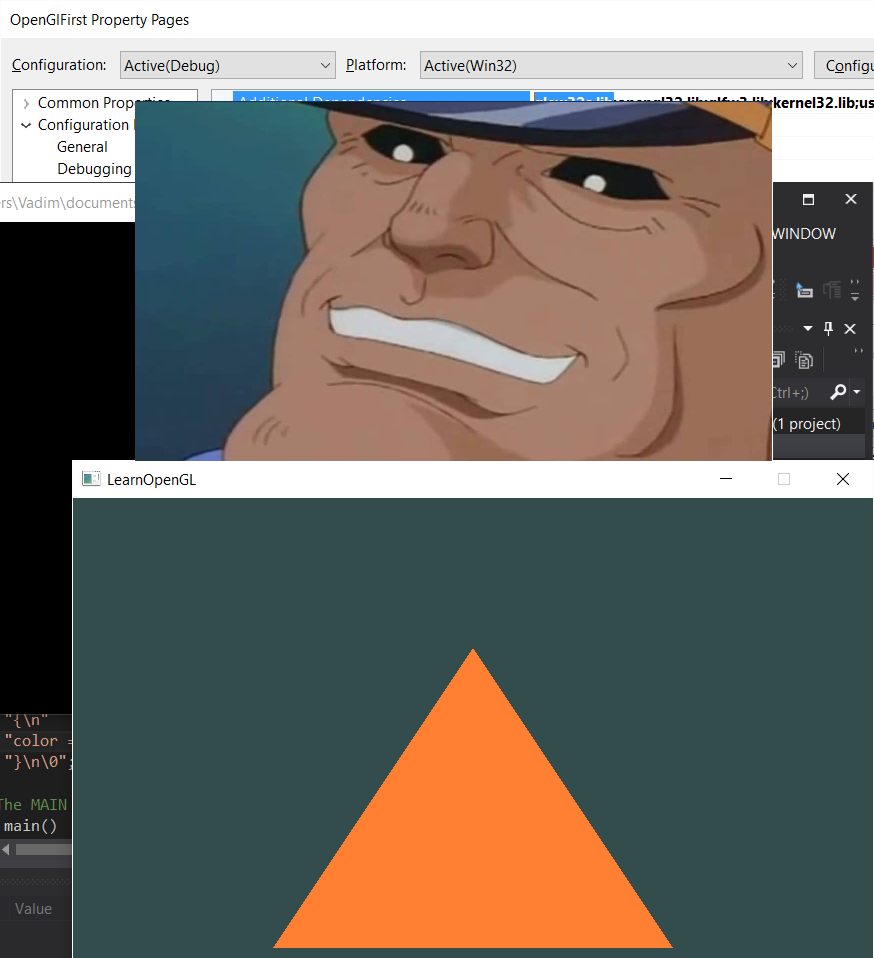
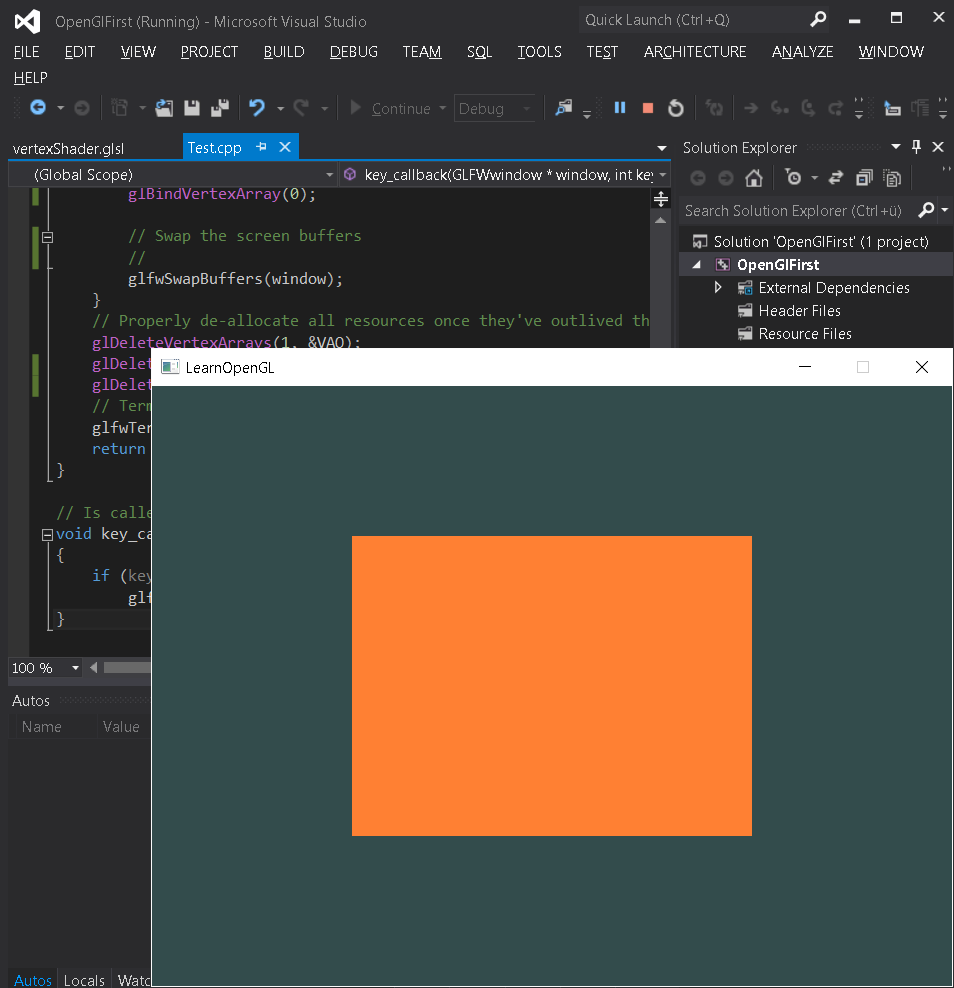
I've got a square... some magic goes on

diff --git a/OpenGlFirst/Test.cpp b/OpenGlFirst/Test.cpp
@@ -95,12 +95,24 @@ int main()
     glDeleteShader(fragmentShader);
 
 
-    // Set up vertex data (and buffer(s)) and attribute pointers
+    // Set up vertex data (and buffer(s)) and attribute pointers for a square (2 triangles).
     GLfloat vertices[] = {
-        -0.5f, -0.5f, 0.0f, // Left  
-         0.5f, -0.5f, 0.0f, // Right 
-         0.0f,  0.5f, 0.0f  // Top   
-    };
+        -0.5f, 0.5f, 0.0f,    // Top Left  
+         0.5f, 0.5f, 0.0f,    // Top Right 
+         0.5f,  -0.5f, 0.0f,  // Bot Right
+		-0.5f, -0.5f, 0.0f	  // Bot left
+	};
+
+	GLuint indices[] = 
+	{ // Note that we start from 0
+		0, 1, 2, // first tr
+		0, 2, 3  // second tr
+	};
+
+	GLuint EBO;
+	glGenBuffers(1, &EBO);
+
+
     GLuint VBO, VAO;
     glGenVertexArrays(1, &VAO);
     glGenBuffers(1, &VBO);
@@ -108,6 +120,12 @@ int main()
     glBindVertexArray(VAO);
 
     glBindBuffer(GL_ARRAY_BUFFER, VBO);
+	
+	// for square
+	glBindBuffer(GL_ELEMENT_ARRAY_BUFFER, EBO);
+	glBufferData(GL_ELEMENT_ARRAY_BUFFER, sizeof(indices), indices, GL_STATIC_DRAW);
+
+
     glBufferData(GL_ARRAY_BUFFER, sizeof(vertices), vertices, GL_STATIC_DRAW);
 
     glVertexAttribPointer(0, 3, GL_FLOAT, GL_FALSE, 3 * sizeof(GLfloat), (GLvoid*)0);
@@ -128,18 +146,21 @@ int main()
         glClearColor(0.2f, 0.3f, 0.3f, 1.0f);
         glClear(GL_COLOR_BUFFER_BIT);
 
-        // Draw our first triangle
+        // Draw square
         glUseProgram(shaderProgram);
         glBindVertexArray(VAO);
-        glDrawArrays(GL_TRIANGLES, 0, 3);
+		glDrawElements(GL_TRIANGLES, 6, GL_UNSIGNED_INT, 0);
+		// glDrawArrays(GL_TRIANGLES, 0, 3);
         glBindVertexArray(0);
 
         // Swap the screen buffers
+		//
         glfwSwapBuffers(window);
     }
     // Properly de-allocate all resources once they've outlived their purpose
     glDeleteVertexArrays(1, &VAO);
     glDeleteBuffers(1, &VBO);
+	glDeleteBuffers(1, &EBO);
     // Terminate GLFW, clearing any resources allocated by GLFW.
     glfwTerminate();
     return 0;
